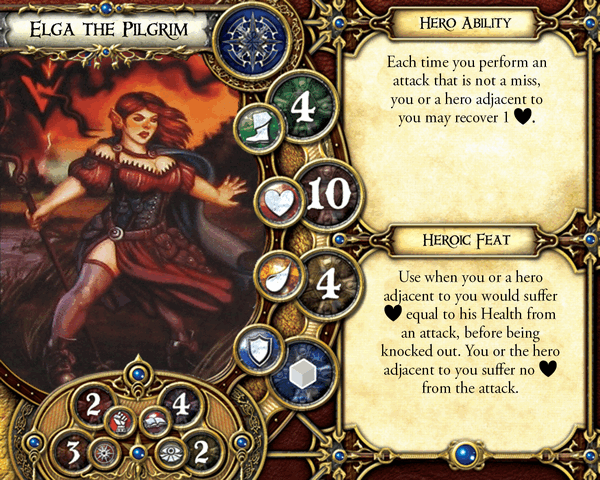
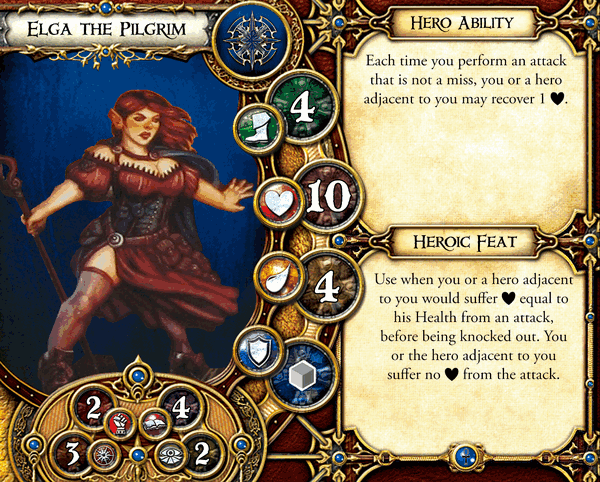
Create new repo

diff --git a/scripts/constants.js b/scripts/constants.js
@@ -12,7 +12,7 @@ function listsort(a, b) {
 var bg2e = 'Second Edition Base Game', BoW = 'Bonds of the Wild', CoD = 'Crown of Destiny', CotF = 'Crusade of the Forgotten', GoD = 'Guardians of Deephall',
 	LoR = 'Labyrinth of Ruin', LoW = 'Lair of the Wyrm', MoR = 'Manor of Ravens', OotO = 'Oath of the Outcast',
 	SoE = 'Shards of Everdark', SoN = 'Shadow of Narekhall', SotS = 'Stewards of the Secret', TF = 'The Trollfens', ToC = 'Treaty of Champions',
-	VoD = 'Visions of Dawn', CK = 'Conversion Kit', MoB = 'Mists of Bilehall', CtR = 'The Chains that Rust', WoW = 'Weapons of War'; 
+	VoD = 'Visions of Dawn', CK = 'Conversion Kit', MoB = 'Mists of Bilehall', CtR = 'The Chains that Rust', SotP = 'Sands of the Past'; 
 var Building = 'Building',
 	Cave = 'Cave',
 	Civilized = 'Civilized',
@@ -38,6 +38,7 @@ var MONSTERS_LIST = [
 	['Blood Ape',2,2,false,SotS,[Hot,Cave],true],
 	['Bone Horror',1,1,false,MoB,[Cave,Cursed],true],
 	['Broodwalker',1,1,false,MoB,[Dark,Building],true],
+	['Burrowing Horror',1,1,false,SotP,[Hot,Mountain],true],
 	['Carrion Drake',1,1,false,LoR,[Water,Dark],true],
 	['Cave Spider',1,1,false,bg2e,[Wilderness,Cave],true],
 	['Changeling',1,1,false,SoN,[Civilized,Cursed],true],
@@ -68,7 +69,7 @@ var MONSTERS_LIST = [
 	['Marrow Priest',1,1,false,CtR,[Dark, Building],true],
 	['Medusa',1,1,true,CotF,[Cursed,Building],true],
 	['Merriod',2,2,false,bg2e,[Wilderness,Water],true],
-	['Mummy Warrior',1,1,true,WoW,[Cursed,Building],true],
+	['Sacrophagus Guard',1,1,true,SotP,[Cursed,Building],true],
 	['Naga',2,2,true,SotS,[Water,Cave],true],
 	['Ogre',2,2,false,VoD,[Building,Cave],true],
 	['Plague Worm',1,2,false,TF,[Water,Cave],true],
@@ -99,7 +100,7 @@ var EXPANSIONS = [
 	[TF,'Small'],
 	[MoB,'Small'],
 	[CtR,'Small'],
-	[WoW,'Small'],
+	[SotP,'Small'],
 	[BoW,'H&M'],
 	[CoD,'H&M'],
 	[CotF,'H&M'],
@@ -161,6 +162,7 @@ var MONSTERS_HP = [
 	['Blood Ape',5,7,7,9],
 	['Bone Horror',5,7,6,9],
 	['Broodwalker',7,10,8,12],
+	['Burrowing Horror',7,9,10,12],
 	['Carrion Drake',6,8,7,10],
 	['Cave Spider',3,5,5,7],
 	['Changeling',4,6,6,8],
@@ -191,7 +193,7 @@ var MONSTERS_HP = [
 	['Marrow Priest',7,9,8,10],
 	['Medusa',4,6,6,9],
 	['Merriod',5,7,7,9],
-	['Mummy Warrior',4,6,6,8],
+	['Sarcophagus Guard',4,6,6,8],
 	['Naga',4,5,6,7],
 	['Ogre',6,8,9,12],
 	['Plague Worm',5,7,6,9],
@@ -486,7 +488,7 @@ TAINTED_CARDS_LIST = [
 
 //Classes
 var apothecary = {},
-	artificer = {},	
+	hierophant = {},	
 	bard = {},
 	disciple = {},
 	prophet = {},
@@ -515,7 +517,7 @@ var apothecary = {},
 	shadowwalker = {};
 
 	apothecary.title = 'Apothecary';
-	artificer.title = 'Artificer';
+	hierophant.title = 'Hierophant';
 	bard.title = 'Bard';
 	disciple.title = 'Disciple';
 	prophet.title = 'Prophet';
@@ -561,18 +563,18 @@ var apothecary = {},
 		['Potent Remedies', 3]
 	];
 
-	artificer.skills = [
-		['Blessed Artifice', 0],
-		['Iron Chisel', 0, hand],
-		['Sacred Script', 0, item],
+	hierophant.skills = [
+		['Embalming Ritual', 0],
+		['Ceremonial Staff', 0, hand],
+		['Sacred Papyrus', 0, item],
 		['Path of the Gods', 1],
-		['Psalm', 1],
-		['Word of Life', 1],
-		['Dust to Dust', 2],
-		['Primal Clay', 2],
-		['Words of Wisdom', 2],
+		['Hymn', 1],
+		['River of Life', 1],
+		['Sands of Vengance', 2],
+		['Preserving Herbs', 2],
+		['Hieroglyphs of Truth', 2],
 		['Holy Proxy', 3],
-		['Shepherd of Souls', 3]
+		['Gift of the Desert', 3]
 	];
 
 	bard.skills = [
@@ -771,9 +773,10 @@ var apothecary = {},
 
 	psychic.skills = [
 		['Mental Assault', 0],
-		['Imbued Darts', 0, hand],
+		['Shadow Darts', 0, hand],
 		['Fortune Tellers Hat', 0, item],
 		['Clairvoyant', 1],
+		['Clairvoyant Coop', 1],
 		['Overload', 1],
 		['Empathic Resolve', 1],		
 		['Mental Fortitude', 2],
@@ -921,7 +924,7 @@ var wiz = {},
 	rog.title = 'Scout';
 	rog.classes = [bountyHunter, monk, shadowwalker, stalker, thief, treasureHunter, wildlander];
 	sup.title = 'Healer';
-	sup.classes = [apothecary, artificer, bard, disciple, prophet, spiritspeaker, watchman];
+	sup.classes = [apothecary, hierophant, bard, disciple, prophet, spiritspeaker, watchman];
 
 var ARCHETYPE_CLASSES = 'mage warrior scout healer';
 var ARCHETYPES_LIST = [wiz, war, rog, sup];
@@ -1028,7 +1031,7 @@ var HEROES_LIST = [
 	['Krutzbeck',12,4,war],
 	['Jonas the Kind',10,4,sup],
 	['Laughin Buldar',14,3,war],
-	['Elga the Mystic',10,4,sup],
+	['Elga the Pilgrim',10,4,sup],
 	['Runemaker Tara',10,4,wiz]
 ];
 
@@ -1057,7 +1060,7 @@ ALLIES_SKILLS['Raythen'] = ['Back Strike', 'Night Prowler', 'Sharp Eyes'];
 
 FAMILIARS_LIST = [
 	['Brightblaze',true],
-        ['Divine Construct',true],	
+        ['Bandaged Servant',true],	
         ['Mirror Image',false],
 	['Pico',true],
 	['Raven Flock',true],

diff --git a/styles/main.css b/styles/main.css
@@ -142,7 +142,7 @@ li.H, li.V
 .ActII
 .Custom,
 .checkbox.apothecary,
-.checkbox.artificer,
+.checkbox.hierophant,
 .checkbox.disciple,
 .checkbox.prophet,
 .checkbox.spiritspeaker,
@@ -194,7 +194,7 @@ li.H, li.V
 .skills-container .select-hybrid-class.watchman,
 .skills-container .select-hybrid-class.steelcaster,
 .items-selects .apothecary,
-.items-selects .artificer,
+.items-selects .hierophant,
 .items-selects .disciple,
 .items-selects .prophet,
 .items-selects .spiritspeaker,
@@ -295,7 +295,7 @@ li.H, li.V
 .showplot.unstableforces .checkbox.unstableforces,
 .showplot.vitalessence .checkbox.vitalessence,
 .showclass.apothecary .checkbox.apothecary,
-.showclass.artificer .checkbox.artificer,
+.showclass.hierophant .checkbox.hierophant,
 .showclass.disciple .checkbox.disciple,
 .showclass.prophet .checkbox.prophet,
 .showclass.spiritspeaker .checkbox.spiritspeaker,
@@ -327,7 +327,7 @@ li.H, li.V
 .showclass.marshal .checkbox.marshal,
 .showclass.bountyhunter .checkbox.bountyhunter,
 .showclass.apothecary.items-selects .apothecary,
-.showclass.artificer.items-selects .artificer,
+.showclass.hierophant.items-selects .hierophant,
 .showclass.disciple.items-selects .disciple,
 .showclass.prophet.items-selects .prophet,
 .showclass.spiritspeaker.items-selects .spiritspeaker,
